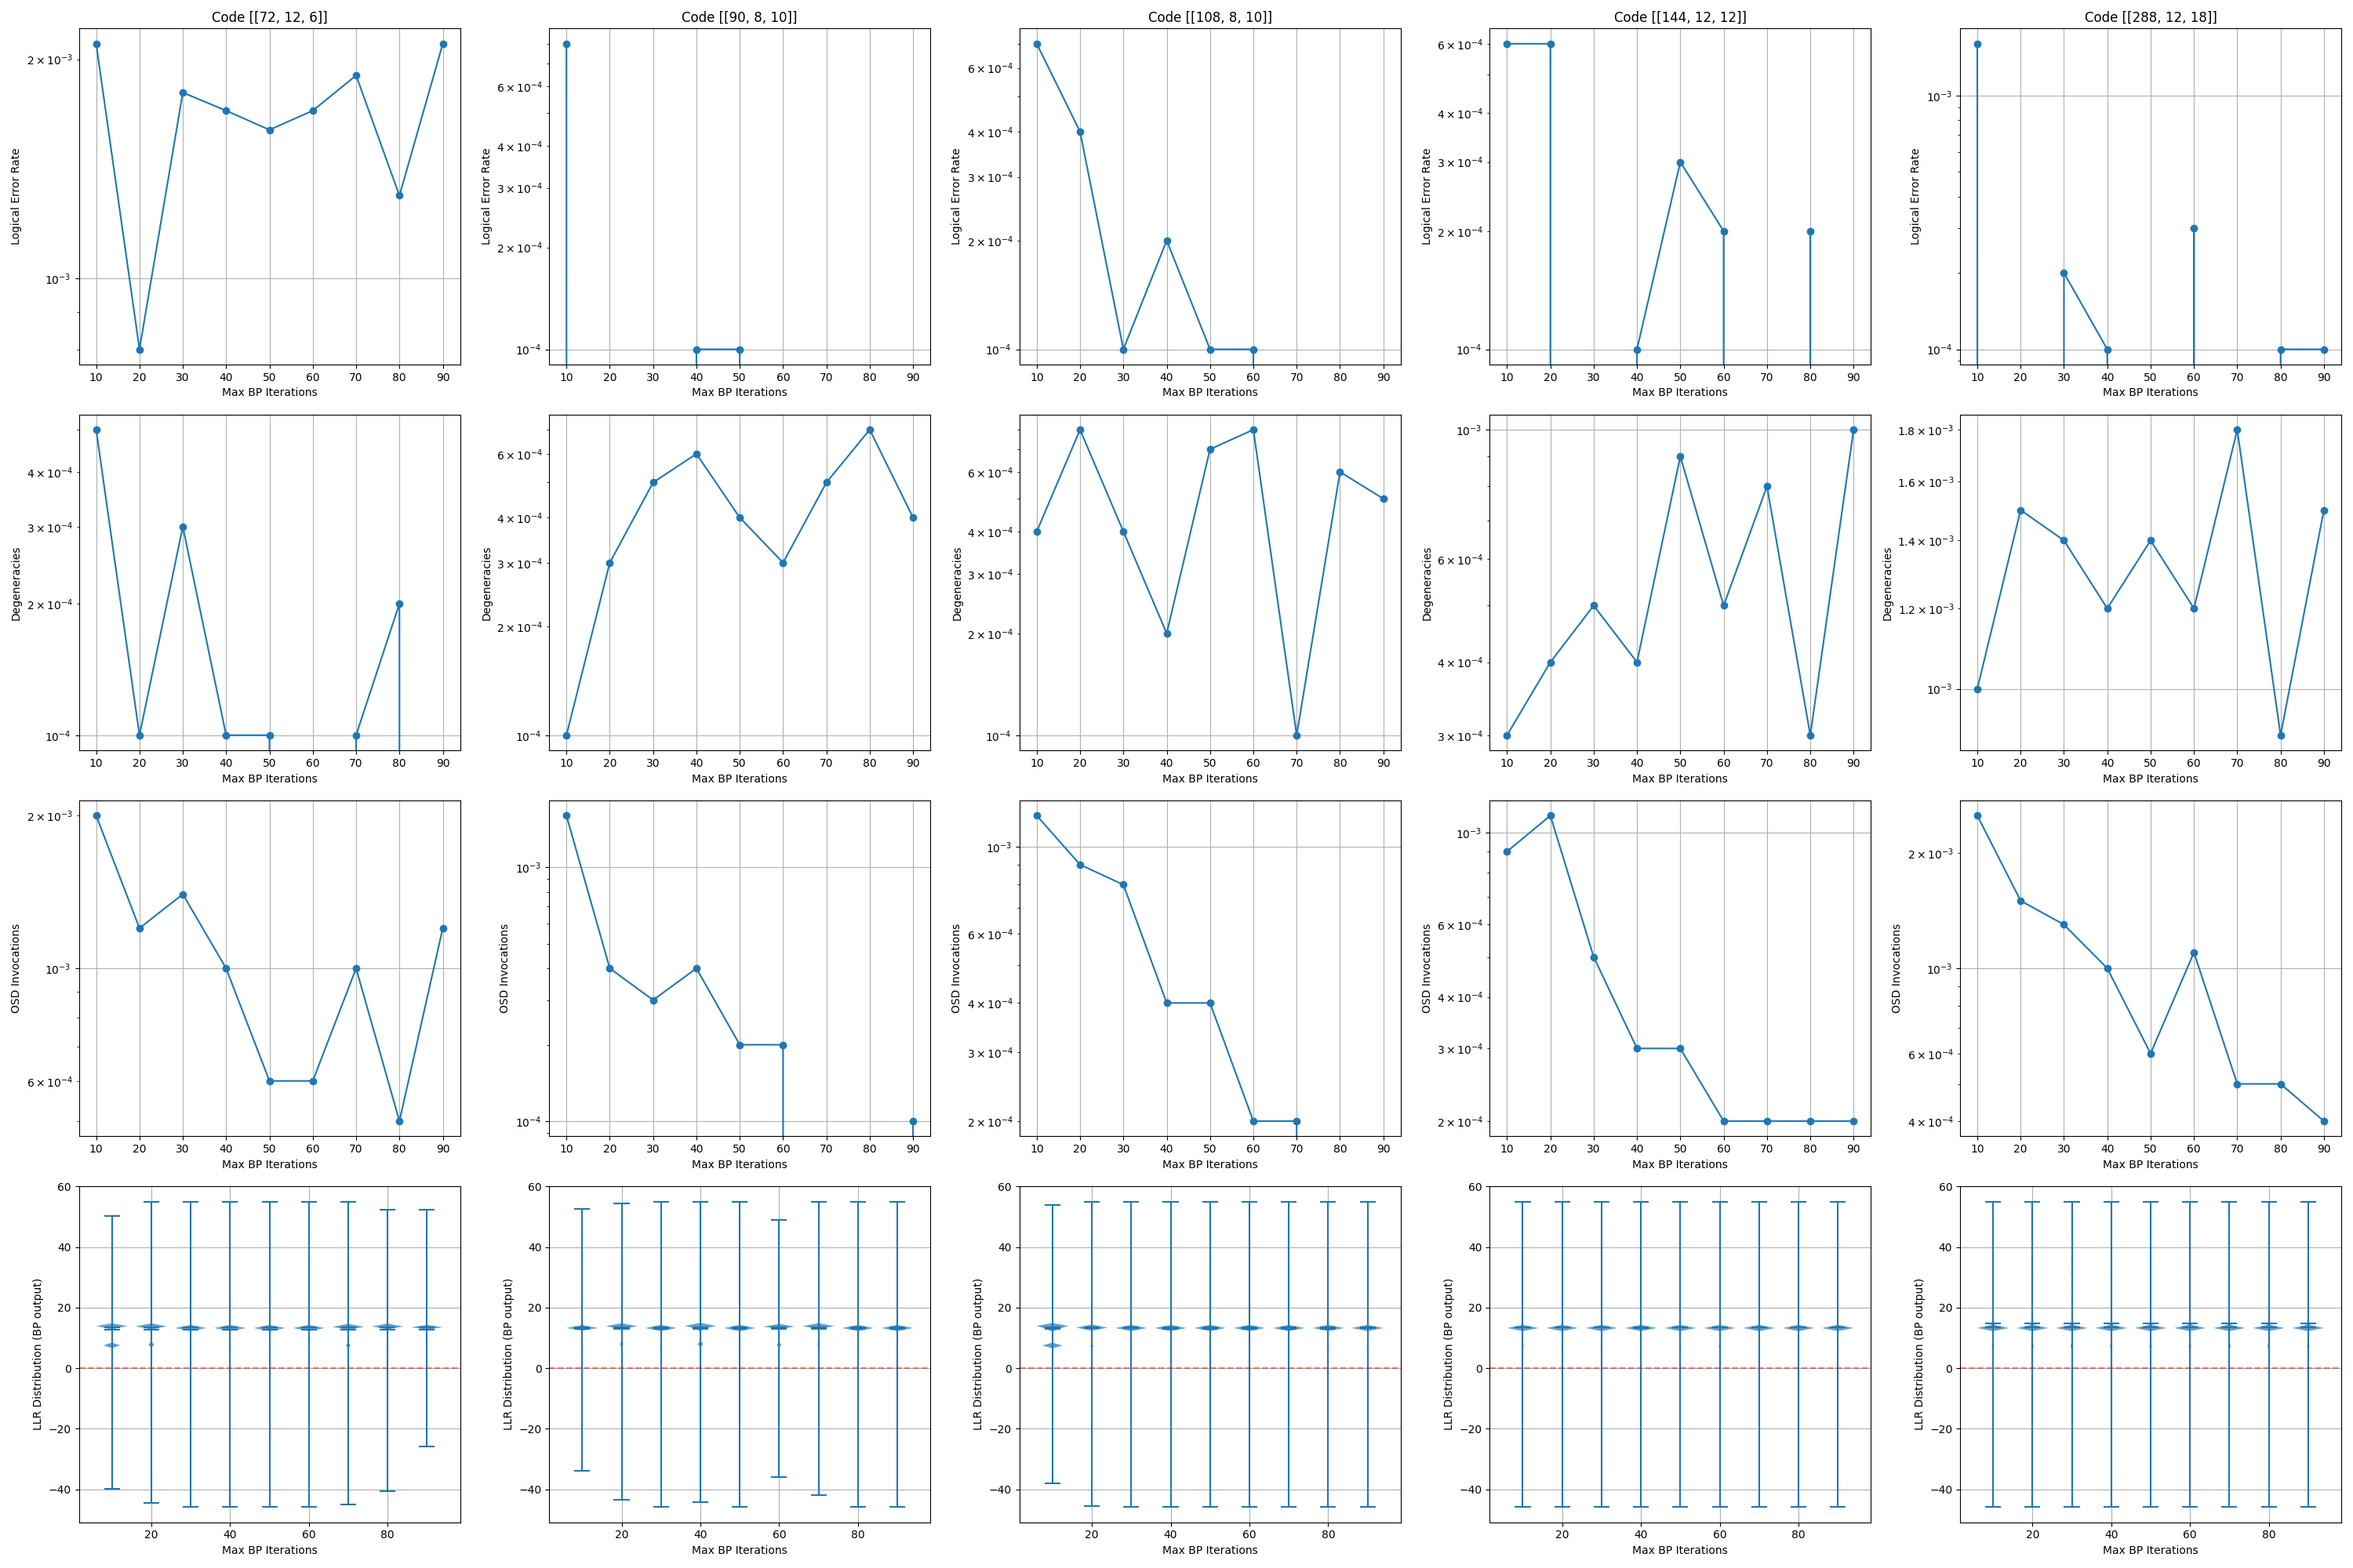
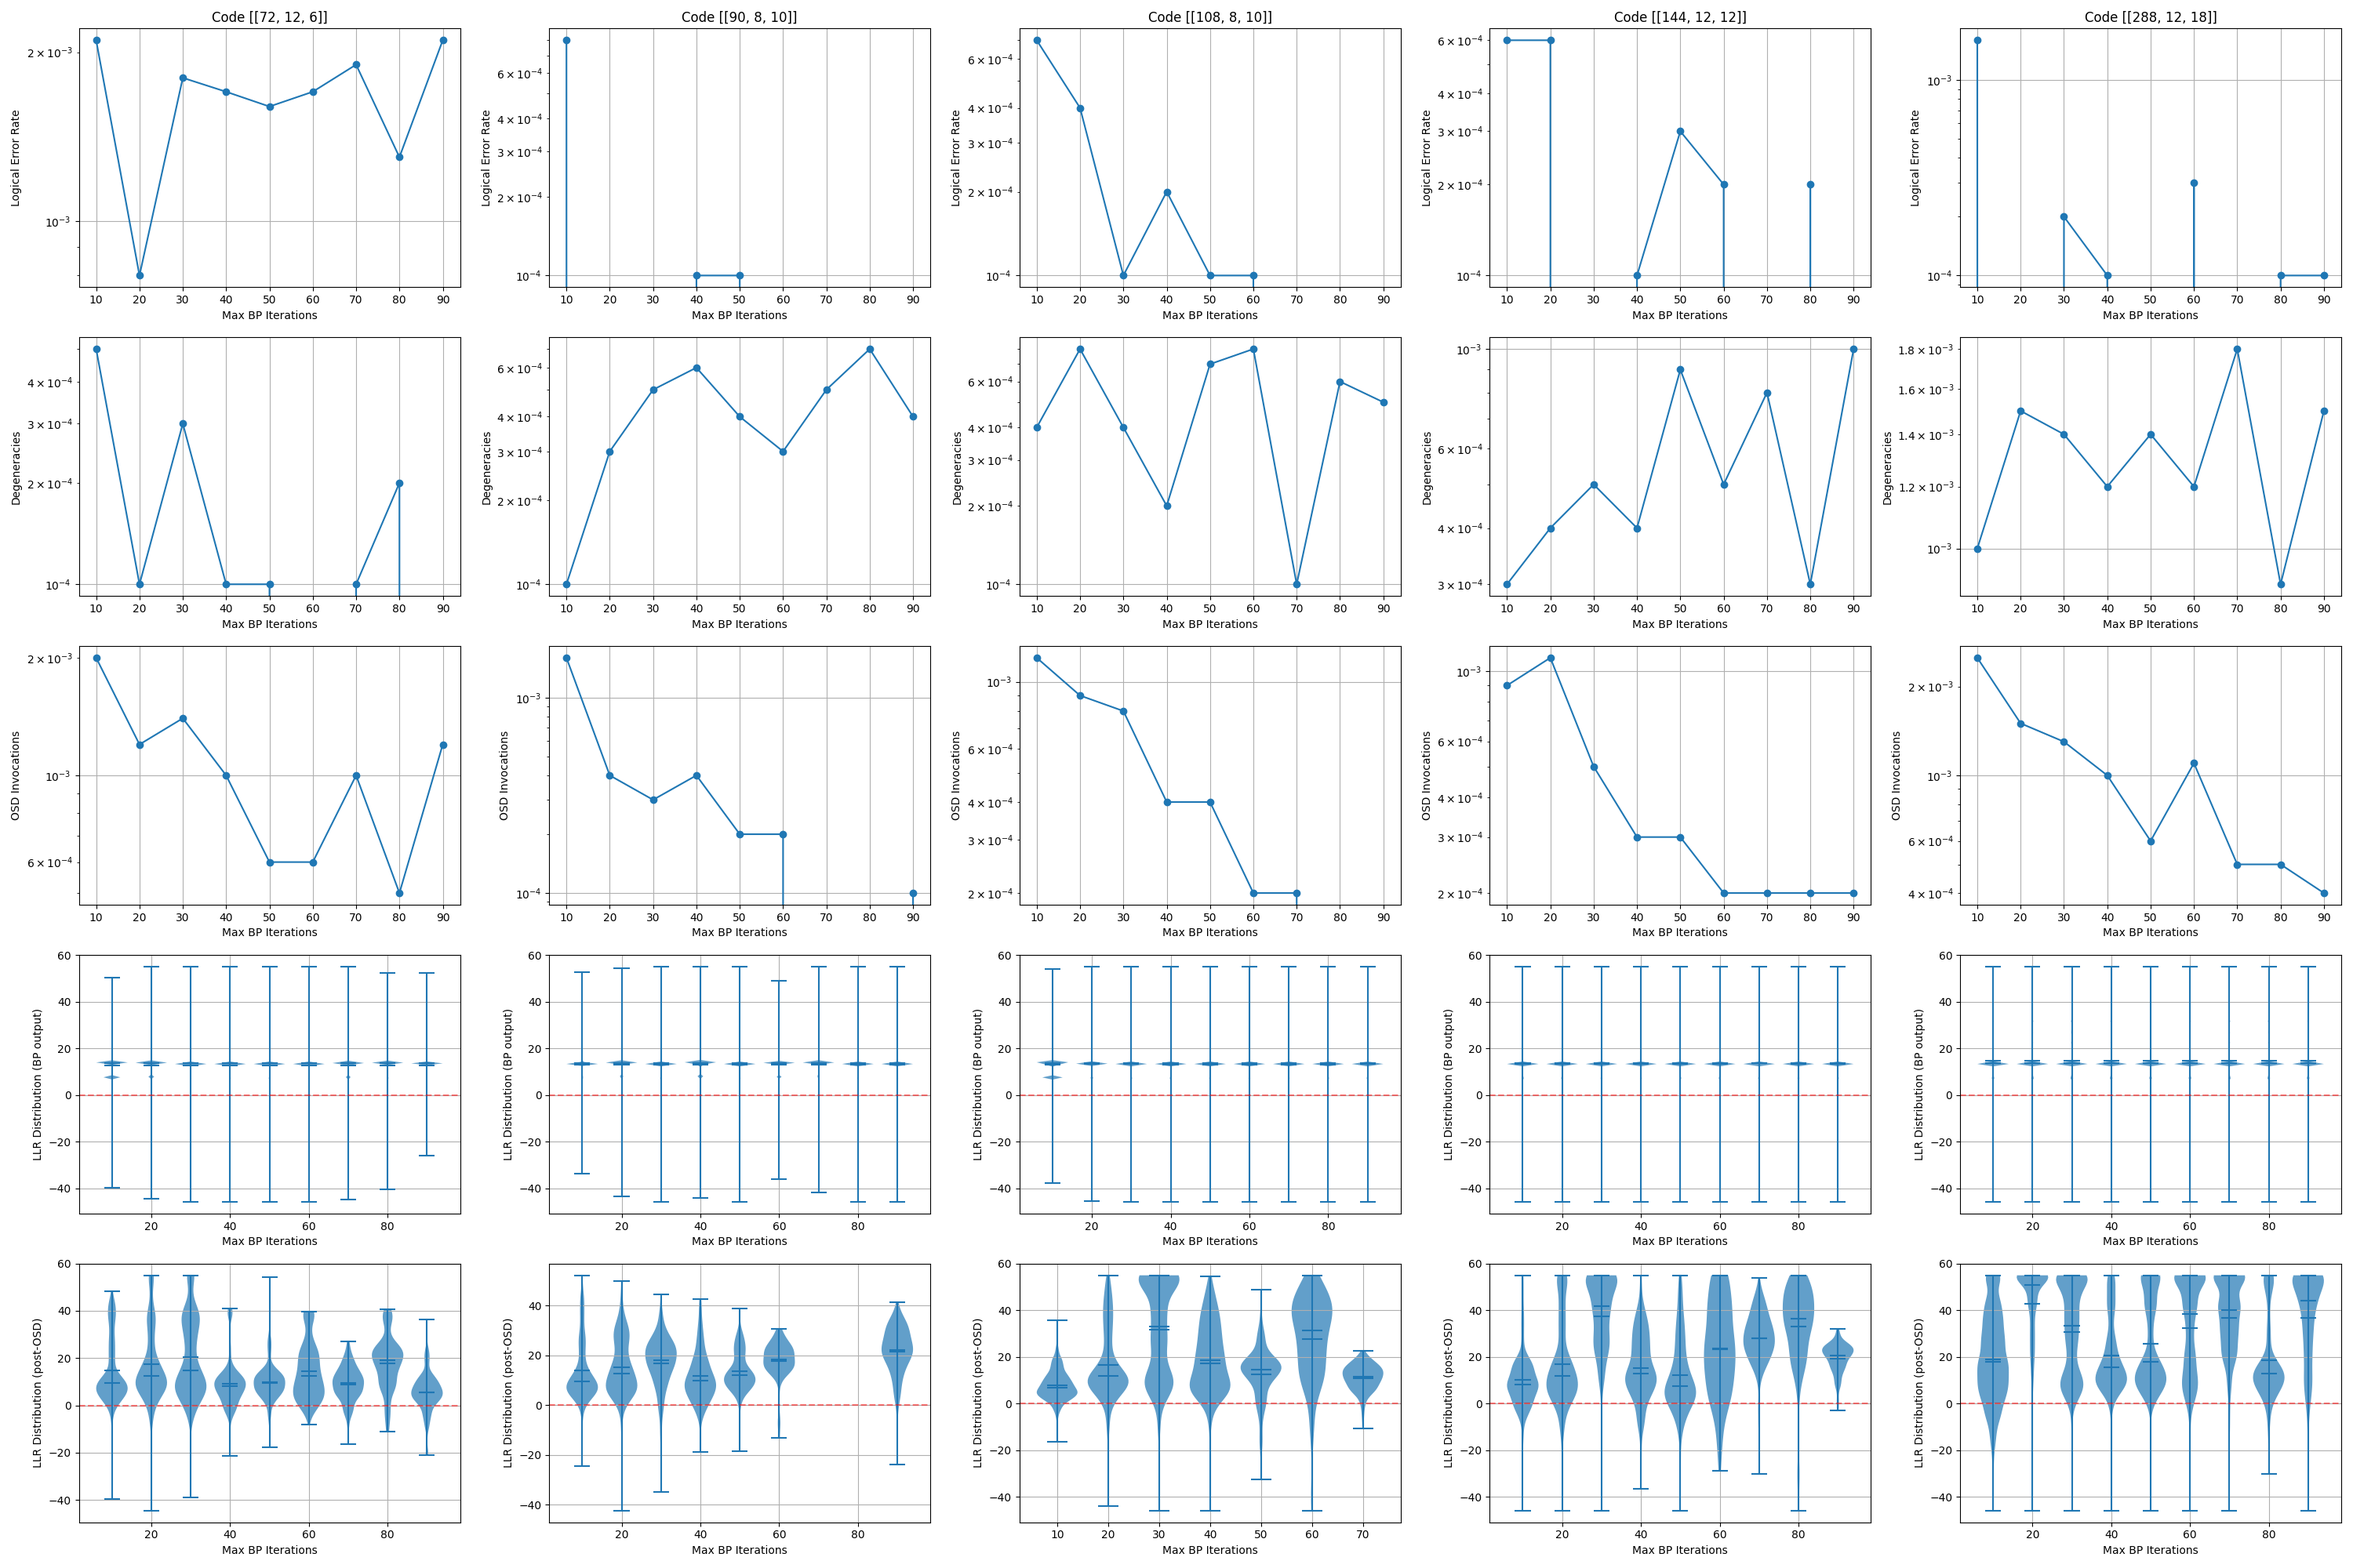
updates and output

diff --git a/BP_per_Iteration.py b/BP_per_Iteration.py
@@ -18,7 +18,7 @@ iterations = [10, 20, 30, 40, 50, 60, 70, 80, 90]
 
 code_labels = ['72', '90', '108', '144', '288']
 
-trials = 100
+trials = 10000
 
 np.random.seed(0)
 
